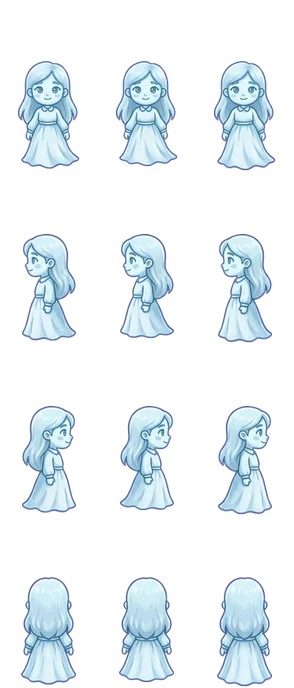
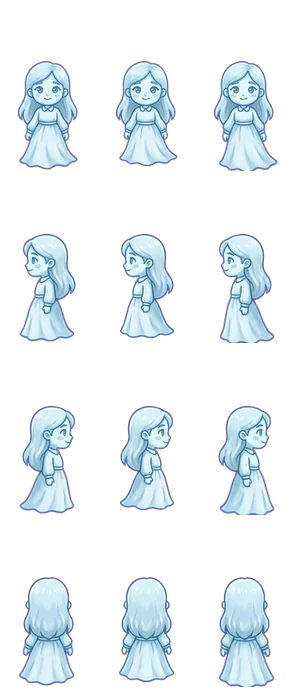
22.2: Sway a floating figure while it stands (D120)
The owner found Eldra floating stock still: her sheet's step frames only
had the dress a few pixels longer, and the page shows the standing frame
while a figure stands, so a ghost hung in the air like a picture.

- tools/art/figures.py: FLOATING["eldra"] is (4, 8), the step frames'
  dress grown 4 and 8 pixels, and its hem swung sideways FLOATING_SWAY 3
  pixels, nothing at the dress's top, left in the first step frame and
  right in the second (`_dress_grown` takes the sway, each row shifted by
  its share, a fraction of a pixel blended). figures.json lists the
  figures that float (`floating`), written by figures.py and by
  export_scene.py's figures. `export_scene.py figures` run again: only
  eldra.webp and figures.json change.
- The page: app/src/engine/sway.ts holds the swaying, SWAY_MS 450, the
  frames 1, 0, 1, 2 (standing, a step, standing, the other step), on a
  clock the scene gives (a looping Phaser timer) and a test fakes. In
  scene.ts an actor whose figure is in `floating` sways while it
  stands, in a level and in a story alike: a walk stops it and steps the
  frames as every figure's, and its end starts it again on the new
  facing; a restart starts it from the standing frame (a seek replays
  from it); a hidden, vanished or sleeping figure's stops, and one that
  appears or wakes starts. The sweep and the check sheets draw the
  standing frame.
- Tests: the sheet's step frames are taller by the growth and their hems
[…]

diff --git a/app/src/engine/scene.ts b/app/src/engine/scene.ts
@@ -92,6 +92,7 @@ import { DebugView, type PaintedImage } from './debug';
 import { debugging } from './debugging';
 import { FOOT_IN_CELL, figureDepth, loweredBy, nudgedBy, sleeperDepth } from './depth';
 import { Speech } from './speech';
+import { Sway } from './sway';
 import { shadeAt, tintOf } from './shade';
 import { Silhouette } from './silhouette';
 import { LONG, Playback } from './playback';
@@ -170,6 +171,8 @@ class LevelScene extends Phaser.Scene {
   private wizardTile: Tile = [0, 0];
   /** Counts the showings of the level starting again, so that only the last fades in. */
   private showing = 0;
+  /** The floating figures' swaying while they stand, by their sprite (D120). */
+  private sways = new Map<Phaser.GameObjects.Sprite, Sway>();
   private things = new Map<string, Phaser.GameObjects.Image>();
   private doors = new Map<string, Tile>();
   private openDoors = new Set<string>();
@@ -263,6 +266,9 @@ class LevelScene extends Phaser.Scene {
   /** A figure walking to a point, its frames stepping as it goes on a painted scene. */
   private walk(sprite: Phaser.GameObjects.Sprite, facing: Facing, x: number, y: number, duration: number): void {
     const stepping = sprite.texture.key.startsWith('fig-');
+    // A floating figure steps as every figure does, and sways again once there (D120).
+    const sway = this.sways.get(sprite);
+    sway?.stop();
     this.tweens.add({
       targets: sprite,
       x,
@@ -272,7 +278,10 @@ class LevelScene extends Phaser.Scene {
       onUpdate: (tween) => {
         if (stepping) this.face(sprite, facing, [0, 1, 2, 1][Math.floor(tween.progress * 4) % 4] ?? 1);
       },
-      onComplete: () => this.face(sprite, facing),
+      onComplete: () => {
+        this.face(sprite, facing);
+        sway?.start();
+      },
     });
   }
 
@@ -463,6 +472,23 @@ class LevelScene extends Phaser.Scene {
       const key = actor.kind === 'friend' ? friendKey(actor.id) : actorKey(actor.kind);
       const sprite = this.figure(actor.id, key, actor.tile, actor.facing).setDepth(3);
       this.actors.set(actor.id, { sprite, tile: actor.tile, facing: actor.facing, sight: actor.sight });
+      if (sprite.texture.key.startsWith('fig-') && this.art?.figures?.floating?.includes(figureName(actor.id, this.look))) {
+        this.sways.set(
+          sprite,
+          new Sway(
+            {
+              every: (delay, callback) => {
+                const event = this.time.addEvent({ delay, loop: true, callback });
+                return () => event.remove(false);
+              },
+            },
+            (step) => {
+              const state = this.actors.get(actor.id);
+              if (state) this.face(state.sprite, state.facing, step);
+            },
+          ),
+        );
+      }
     }
     this.wizard = this.figure('wizard', WIZARD_KEY, this.map.start, 'down').setDepth(4);
     this.speech = new Speech(this, this.parentNode, {
@@ -669,6 +695,9 @@ class LevelScene extends Phaser.Scene {
       state.sprite.setPosition(...this.figureAt(state.tile)).setAlpha(1).setVisible(!actor.hidden).setAngle(0);
       this.face(state.sprite, actor.facing);
       if (actor.asleep) this.layDown(state.sprite, actor.id, actor.asleep, true);
+      const sway = this.sways.get(state.sprite);
+      if (actor.hidden || actor.asleep) sway?.stop();
+      else sway?.start();
     }
     this.placeWizard(this.map.start, 'down');
     this.parentNode.dataset.tick = '0';
@@ -1121,10 +1150,12 @@ class LevelScene extends Phaser.Scene {
         break;
       // A story's actor lies down in a bed and gets up (D91).
       case 'sleep':
+        this.sways.get(actor.sprite)?.stop();
         this.layDown(actor.sprite, event.actor, String(event.data.id), instant);
         break;
       case 'wake':
         this.getUp(actor.sprite, actor.tile, actor.facing, instant);
+        this.sways.get(actor.sprite)?.start();
         break;
       // A story's actor speaks, comes into sight and goes (D74).
       case 'say':
@@ -1140,6 +1171,7 @@ class LevelScene extends Phaser.Scene {
         actor.tile = at;
         actor.sprite.setPosition(...this.figureAt(at)).setVisible(true);
         this.face(actor.sprite, actor.facing);
+        this.sways.get(actor.sprite)?.start();
         if (instant) actor.sprite.setAlpha(1);
         else {
           actor.sprite.setAlpha(0);
@@ -1149,6 +1181,7 @@ class LevelScene extends Phaser.Scene {
       }
       case 'vanish':
         this.tweens.killTweensOf(actor.sprite);
+        this.sways.get(actor.sprite)?.stop();
         if (instant) actor.sprite.setVisible(false);
         else {
           this.tweens.add({

diff --git a/app/src/engine/sway.ts b/app/src/engine/sway.ts
@@ -1,0 +1,47 @@
+// A floating figure never stands still (D120): while it stands, its frames go
+// standing, first step, standing, second step, slowly and without end, its dress
+// swaying at the hem; a walk stops the swaying, and its end starts it again.
+
+/** How long each frame of the swaying is shown, in milliseconds. */
+export const SWAY_MS = 450;
+/** The frames of a row the swaying goes through: the standing frame between the
+ * two step frames, whose dress is grown and swung (tools/art/figures.py). */
+export const SWAY_STEPS = [1, 0, 1, 2] as const;
+
+/** A clock that calls back every so many milliseconds until stopped: the scene's
+ * own, or a fake one in a test. */
+export interface SwayClock {
+  every(ms: number, callback: () => void): () => void;
+}
+
+export class Sway {
+  private stopTimer: (() => void) | null = null;
+  private index = 0;
+
+  /** `show` draws a step of the figure's row, the way it faces now. */
+  constructor(
+    private readonly clock: SwayClock,
+    private readonly show: (step: number) => void,
+  ) {}
+
+  /** The standing frame, and the swaying from it on. */
+  start(): void {
+    this.stop();
+    this.index = 0;
+    this.show(SWAY_STEPS[0]);
+    this.stopTimer = this.clock.every(SWAY_MS, () => {
+      this.index = (this.index + 1) % SWAY_STEPS.length;
+      this.show(SWAY_STEPS[this.index] ?? SWAY_STEPS[0]);
+    });
+  }
+
+  /** No more swaying: a walk steps the frames, or the figure is gone. */
+  stop(): void {
+    this.stopTimer?.();
+    this.stopTimer = null;
+  }
+
+  get swaying(): boolean {
+    return this.stopTimer !== null;
+  }
+}

diff --git a/app/src/engine/sway.test.ts b/app/src/engine/sway.test.ts
@@ -1,0 +1,40 @@
+import { afterEach, beforeEach, describe, expect, it, vi } from 'vitest';
+import { SWAY_MS, Sway, type SwayClock } from './sway';
+
+const clock: SwayClock = {
+  every(ms, callback) {
+    const timer = setInterval(callback, ms);
+    return () => clearInterval(timer);
+  },
+};
+
+describe('a floating figure sways while it stands (D120)', () => {
+  beforeEach(() => vi.useFakeTimers());
+  afterEach(() => vi.useRealTimers());
+
+  it('goes standing, a step, standing, the other step, and on', () => {
+    const shown: number[] = [];
+    const sway = new Sway(clock, (step) => shown.push(step));
+    sway.start();
+    expect(shown).toEqual([1]);
+    vi.advanceTimersByTime(1000);
+    // Its frame changes within a second.
+    expect(shown).toEqual([1, 0, 1]);
+    vi.advanceTimersByTime(SWAY_MS * 3);
+    expect(shown).toEqual([1, 0, 1, 2, 1, 0]);
+  });
+
+  it('stops for a walk and starts again from the standing frame', () => {
+    const shown: number[] = [];
+    const sway = new Sway(clock, (step) => shown.push(step));
+    sway.start();
+    vi.advanceTimersByTime(SWAY_MS);
+    sway.stop();
+    expect(sway.swaying).toBe(false);
+    vi.advanceTimersByTime(SWAY_MS * 4);
+    expect(shown).toEqual([1, 0]);
+    sway.start();
+    expect(shown.at(-1)).toBe(1);
+    expect(sway.swaying).toBe(true);
+  });
+});

diff --git a/app/src/engine/painted.ts b/app/src/engine/painted.ts
@@ -91,6 +91,8 @@ export interface FigureArt {
   height_cells: number;
   standing: number;
   figures: string[];
+  /** The figures that float, which sway while they stand (D120). */
+  floating?: string[];
   /** The first row of each part of a wizard's sheet, by its name: the walking, the
    * casting and the picking-up rows (four each, down, left, right and up), the
    * celebrating one, facing down, and the lying one, asleep (D91). */

diff --git a/tools/art/figures.py b/tools/art/figures.py
@@ -24,7 +24,9 @@ every walking row is made from its standing frame (`walking`): a step frame is
 the standing frame with only its legs, the lowest LEGS of the figure, taken
 from the step's drawing, so that a figure walks moving its feet alone, never
 turning its head or its arms; a figure that floats (FLOATING) has no legs, and
-its step frames are the standing frame with its dress grown downward.
+its step frames are the standing frame with its dress grown downward and its hem
+swung, left in one and right in the other, which the page cycles through while
+the figure stands (D120); figures.json lists them (`floating`).
 
 Writes content/art/figures/wizard-<look>.webp for every look and the friends'
 sheets named in FRIENDS, from the bases in art/figures/ (BASES), and their list in
@@ -111,8 +113,12 @@ PARTS = ("skin", "hair", "robe", "hat", "band")
 #: How much of a figure, from its feet up, a step frame keeps of its own drawing:
 #: the boots and the robe's hem. The rest is the standing frame's.
 LEGS = 0.2
-#: The figures that float, and how many pixels each step frame's dress grows.
-FLOATING = {"eldra": (3, 5)}
+#: The figures that float, and how many pixels each step frame's dress grows; and
+#: how far the hem of a step frame's dress swings sideways, in pixels, left in the
+#: first step frame and right in the second, from nothing at the dress's top
+#: (D120: the page sways a floating figure through its frames while it stands).
+FLOATING = {"eldra": (4, 8)}
+FLOATING_SWAY = 3
 #: A row whose standing frame is not the one to keep, and the frame it keeps: Dask's
 #: back has his hands behind it in the first frame, not in the standing one.
 KEPT_FRAME = {"dask": {"up": 0}}
@@ -296,7 +302,8 @@ def walking(
     every other frame keeps its own legs, the lowest LEGS of the figure, blended into
     the kept frame above them over a few rows; or, for a figure that floats, the
     step frames are the kept frame with its dress, the lowest DRESS of it, stretched
-    down by `floats` pixels (the first step's, the last's)."""
+    down by `floats` pixels (the first step's, the last's) and its hem swung
+    FLOATING_SWAY pixels, left in the first and right in the last."""
     pixels = np.array(sheet.convert("RGBA")).astype(np.float32)
     fw, fh = frame
     out = pixels.copy()
@@ -311,7 +318,8 @@ def walking(
         for step, column in enumerate(others):
             cell = pixels[row * fh : (row + 1) * fh, column * fw : (column + 1) * fw]
             if floats is not None:
-                made = _dress_grown(standing, top, bottom, floats[step])
+                sway = FLOATING_SWAY if step else -FLOATING_SWAY
+                made = _dress_grown(standing, top, bottom, floats[step], sway)
             else:
                 cut = bottom - int((bottom - top) * LEGS)
                 blend = 6
@@ -321,12 +329,30 @@ def walking(
     return Image.fromarray(np.clip(out, 0, 255).astype(np.uint8), "RGBA")
 
 
-def _dress_grown(standing: np.ndarray, top: int, bottom: int, grow: int) -> np.ndarray:
-    """A floating figure's standing frame with its dress stretched `grow` pixels down."""
+def _dress_grown(
+    standing: np.ndarray, top: int, bottom: int, grow: int, sway: int = 0
+) -> np.ndarray:
+    """A floating figure's standing frame with its dress stretched `grow` pixels down
+    and sheared sideways, nothing at the dress's top to `sway` pixels at its hem (to
+    the right when positive)."""
     start = bottom - int((bottom - top) * DRESS)
     height = bottom + 1 - start
     dress = Image.fromarray(standing[start : bottom + 1].astype(np.uint8), "RGBA")
     longer = np.array(dress.resize((dress.width, height + grow), Image.LANCZOS)).astype(np.float32)
+    if sway:
+        rows = longer.shape[0]
+        # Each row moved by its share of the sway, a fraction of a pixel blended.
+        swung = np.zeros_like(longer)
+        for row in range(rows):
+            by = sway * row / max(1, rows - 1)
+            whole = int(np.floor(by))
+            part = by - whole
+            line = longer[row]
+            here = (
+                np.roll(line, whole, axis=0) * (1 - part) + np.roll(line, whole + 1, axis=0) * part
+            )
+            swung[row] = here
+        longer = swung
     made = standing.copy()
     end = min(made.shape[0], start + longer.shape[0])
     made[start:end] = longer[: end - start]
@@ -608,6 +634,7 @@ def make(check: bool = False) -> list[Path]:
     # by export_scene.py (Wenna, Eldra, Dask).
     about["figures"] = sorted(p.stem for p in FIGURES.glob("*.webp"))
     about["rows"] = ROWS
+    about["floating"] = sorted(FLOATING)
     # A sheet whose rows are not a wizard's says its own (D91).
     about["sheets"] = {
         f"{name}-{set_name}": FRIEND_ROWS for name in FRIENDS for set_name in sets[name]

diff --git a/tests/tools/test_art.py b/tests/tools/test_art.py
@@ -1205,3 +1205,49 @@ def test_every_look_has_its_sheet_and_the_friends_theirs():
     for friend in figures.FRIENDS:
         for colours in ("a", "b"):
             assert f"{friend}-{colours}" in about["figures"]
+
+
+def test_a_floating_figure_s_step_frames_have_its_dress_grown_and_swung():
+    import figures
+
+    width, height = 20, 48
+    sheet = np.zeros((height * 4, width * 3, 4), dtype=np.uint8)
+    for row in range(4):
+        for column in range(3):
+            # A figure 4 pixels wide from row 4 to row 35 of its frame.
+            sheet[
+                row * height + 4 : row * height + 36, column * width + 8 : column * width + 12
+            ] = (
+                120,
+                120,
+                200,
+                255,
+            )
+    made = np.array(figures.walking(Image.fromarray(sheet), (width, height), (4, 8)))
+    grow, sway = (4, 8), figures.FLOATING_SWAY
+
+    def frame(column: int) -> np.ndarray:
+        return made[:height, column * width : (column + 1) * width, 3] > 128
+
+    def hem(alpha: np.ndarray) -> float:
+        bottom = np.nonzero(alpha.any(axis=1))[0].max()
+        return float(np.nonzero(alpha[bottom])[0].mean())
+
+    standing, first, last = frame(1), frame(0), frame(2)
+    lowest = [np.nonzero(f.any(axis=1))[0].max() for f in (standing, first, last)]
+    # Taller than the standing frame by the growth; the hem swung left, then right.
+    assert lowest[1] - lowest[0] == grow[0] and lowest[2] - lowest[0] == grow[1]
+    assert hem(first) < hem(standing) - sway / 2 and hem(last) > hem(standing) + sway / 2
+    # The dress's top does not move.
+    assert (first[4:20] == standing[4:20]).all() and (last[4:20] == standing[4:20]).all()
+
+
+@pytest.mark.skipif(
+    not (FIGURES / "figures.json").is_file(), reason="the figures are not exported"
+)
+def test_the_figures_that_float_are_listed_for_the_page():
+    import figures
+
+    assert json.loads((FIGURES / "figures.json").read_text())["floating"] == sorted(
+        figures.FLOATING
+    )

diff --git a/tools/art/export_scene.py b/tools/art/export_scene.py
@@ -991,6 +991,7 @@ def figures() -> Path:
         "frames": 3,
         "standing": 1,
         "figures": [name for name in FIGURES if name not in AS_BASES],
+        "floating": sorted(looks.FLOATING),
     }
     (out / "figures.json").write_text(json.dumps(data, indent=2) + "\n")
     # Every look's sheet and the friends', from the bases, and their names in the list.
